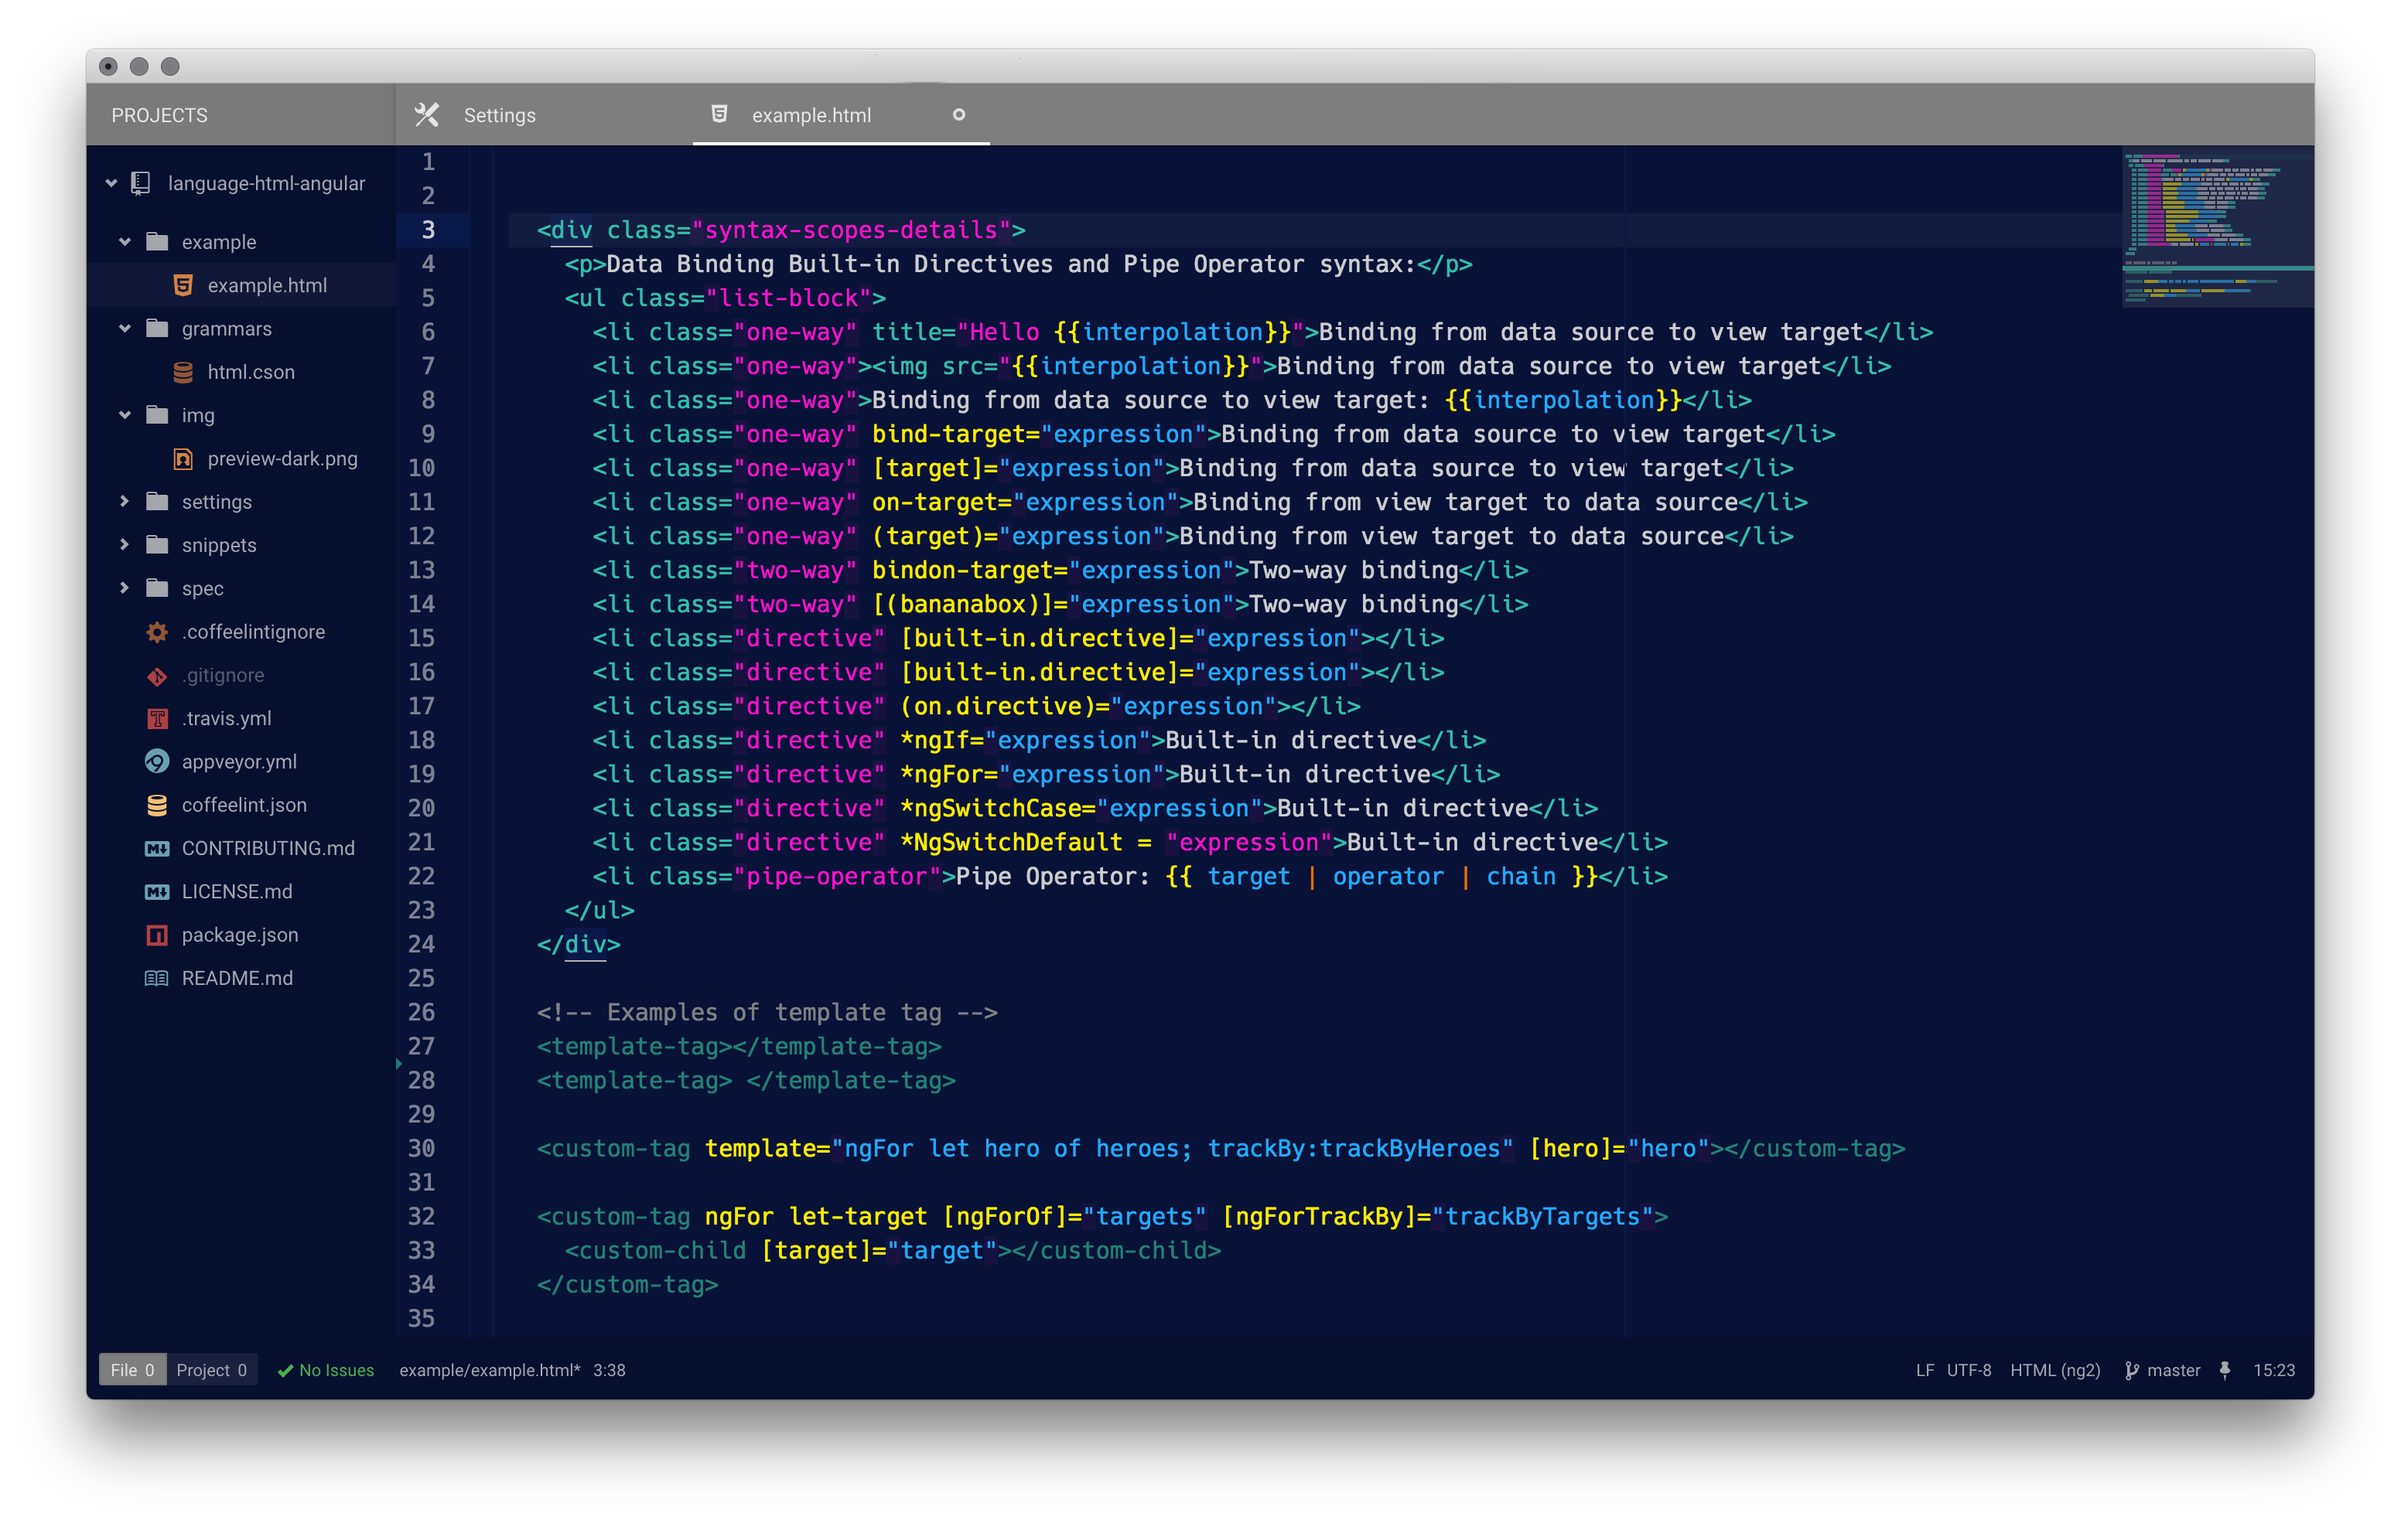
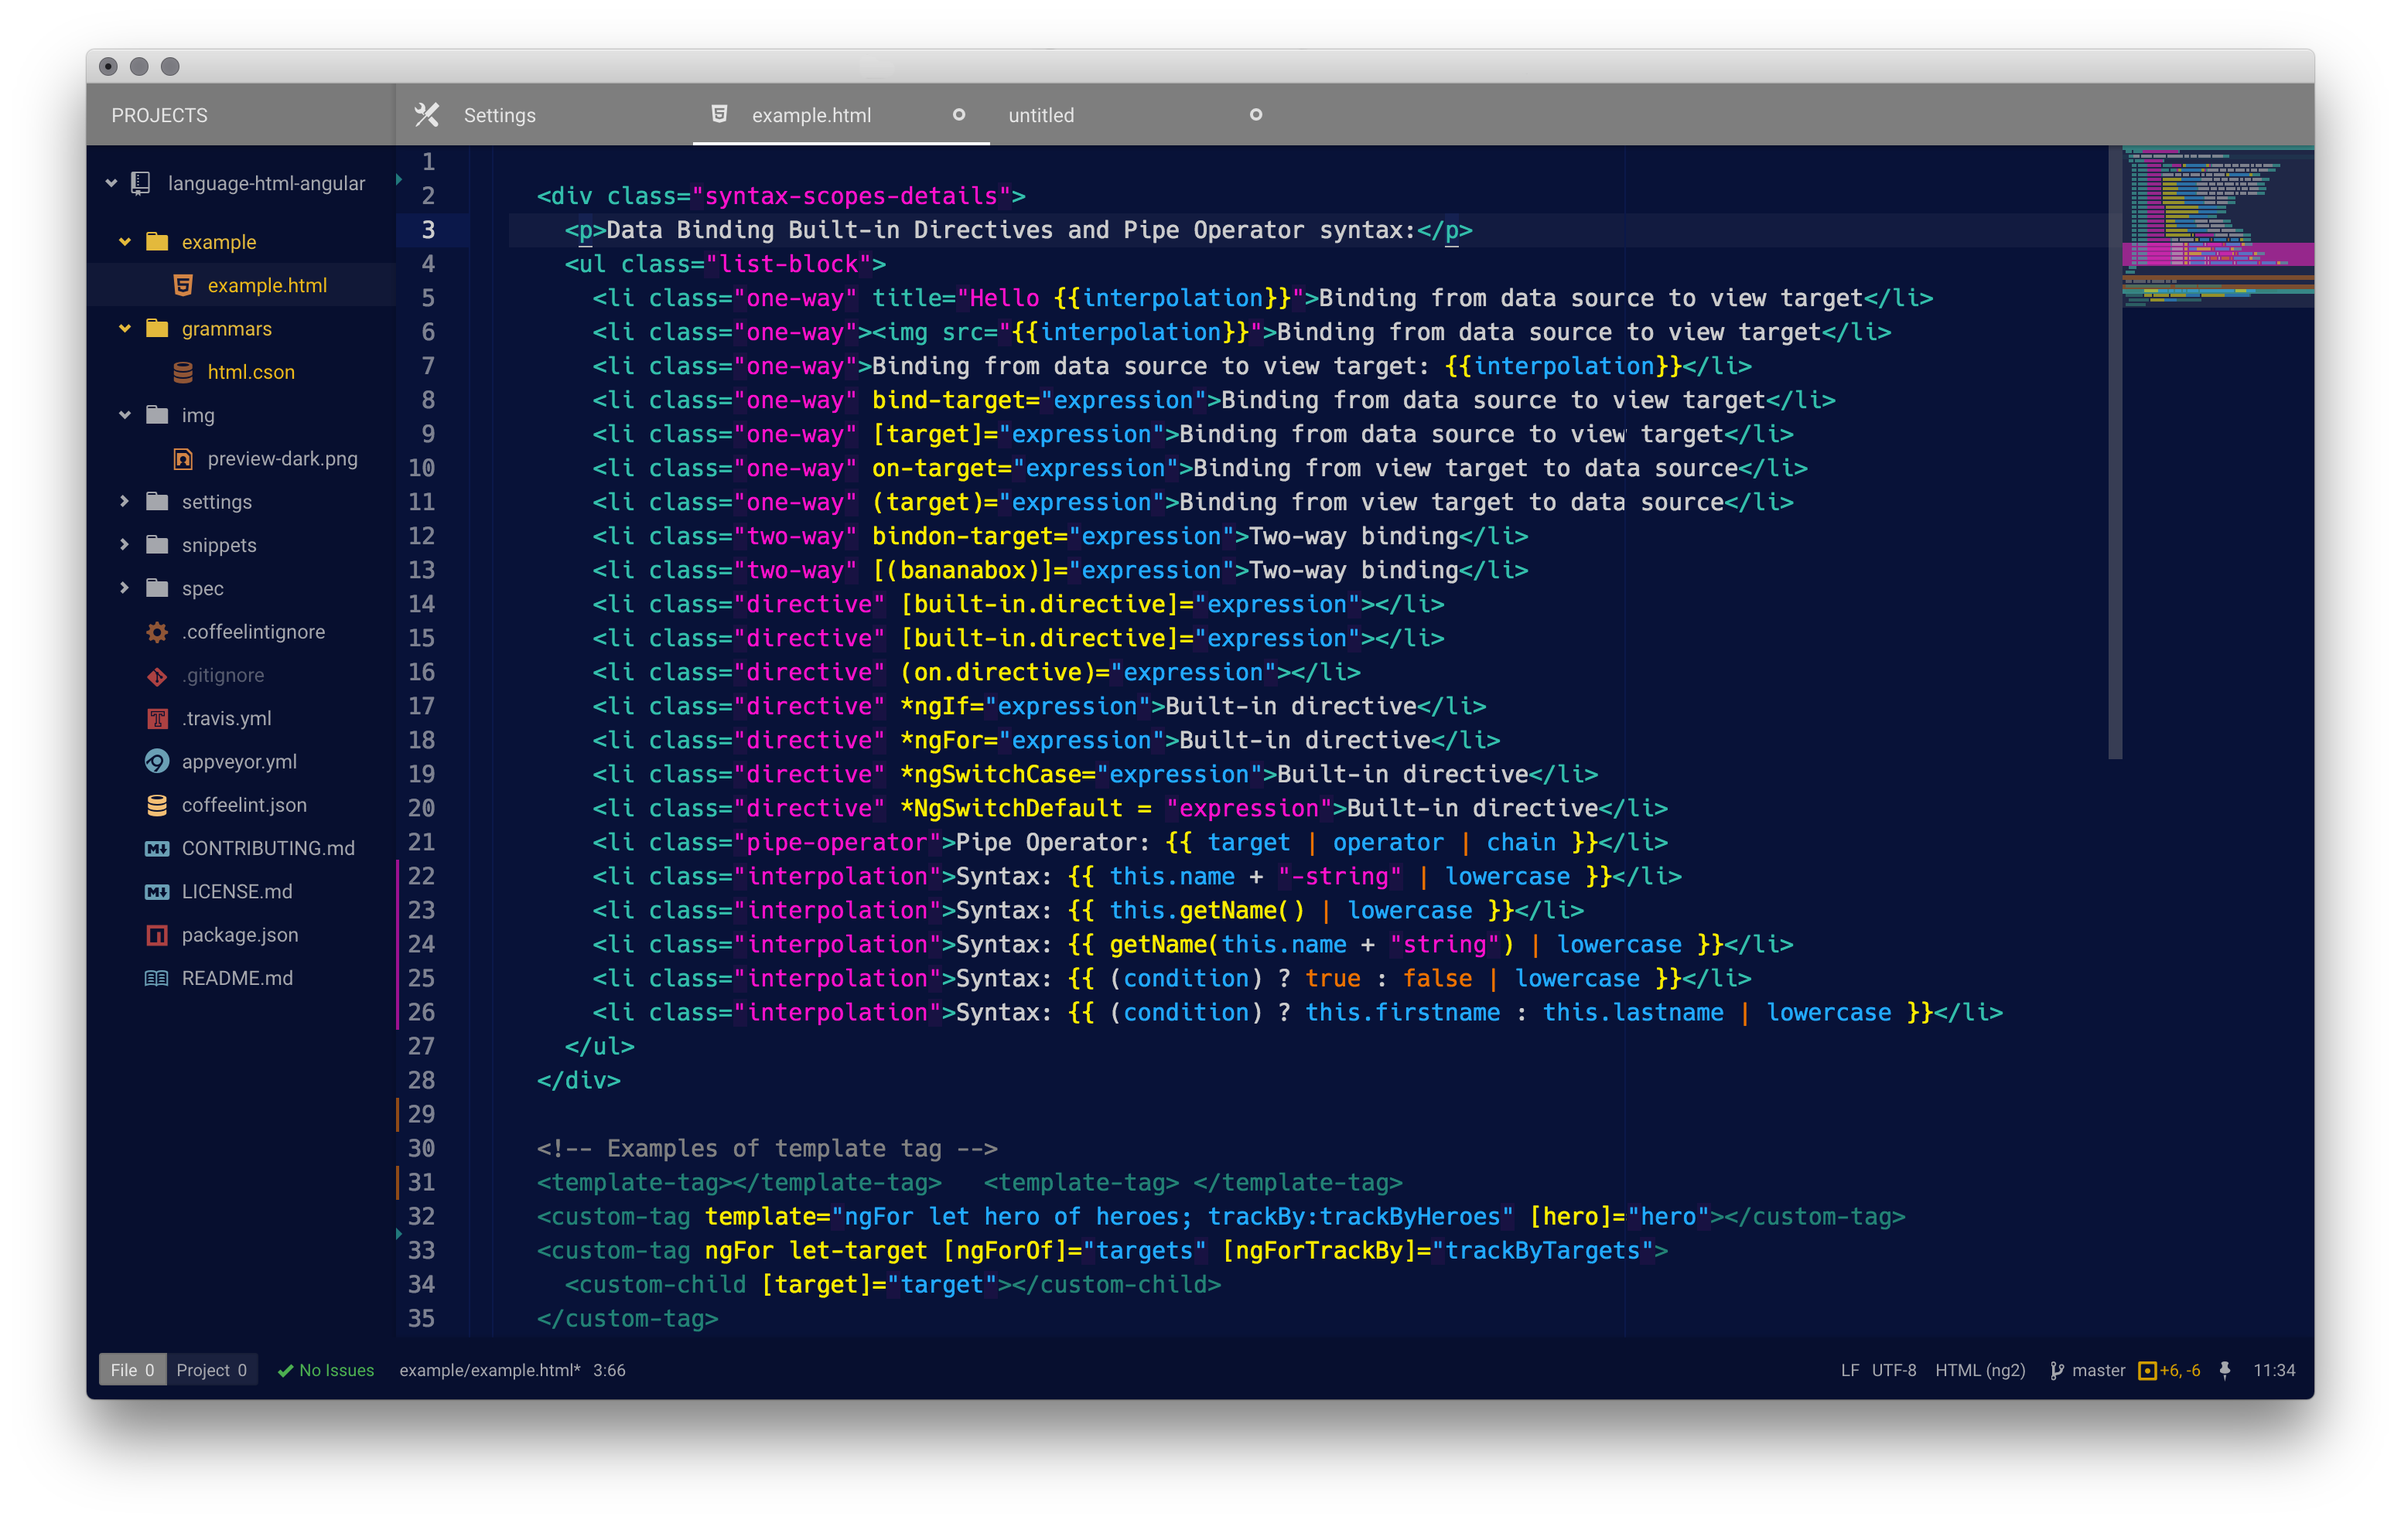
interpolation syntax highlighting added

diff --git a/styles/languages/angular.less b/styles/languages/angular.less
@@ -76,4 +76,37 @@
     color: darken(@111111,15%) !important;
   }
 
+  // Interpolation Syntax
+  .punctuation.definition.js.string.begin.ng.html {
+    color: @444444 !important;
+  }
+
+  .punctuation.definition.js.string.end.ng.html {
+    color: @444444 !important;
+  }
+
+  .string.operator.ng {
+    color: @syntax-text-color !important;
+  }
+
+  .string.bracket.ng {
+    color: @syntax-text-color !important;
+  }
+
+  .string.js.bool.ng {
+    color: @222222 !important;
+  }
+
+  .punctuation.definition.function.begin.ng {
+    color: @666666 !important;
+  }
+
+  .punctuation.definition.function.end.ng {
+    color: @666666 !important;
+  }
+
+  .meta.definition.function.ng {
+    color: @333333 !important;
+  }
+
 }
